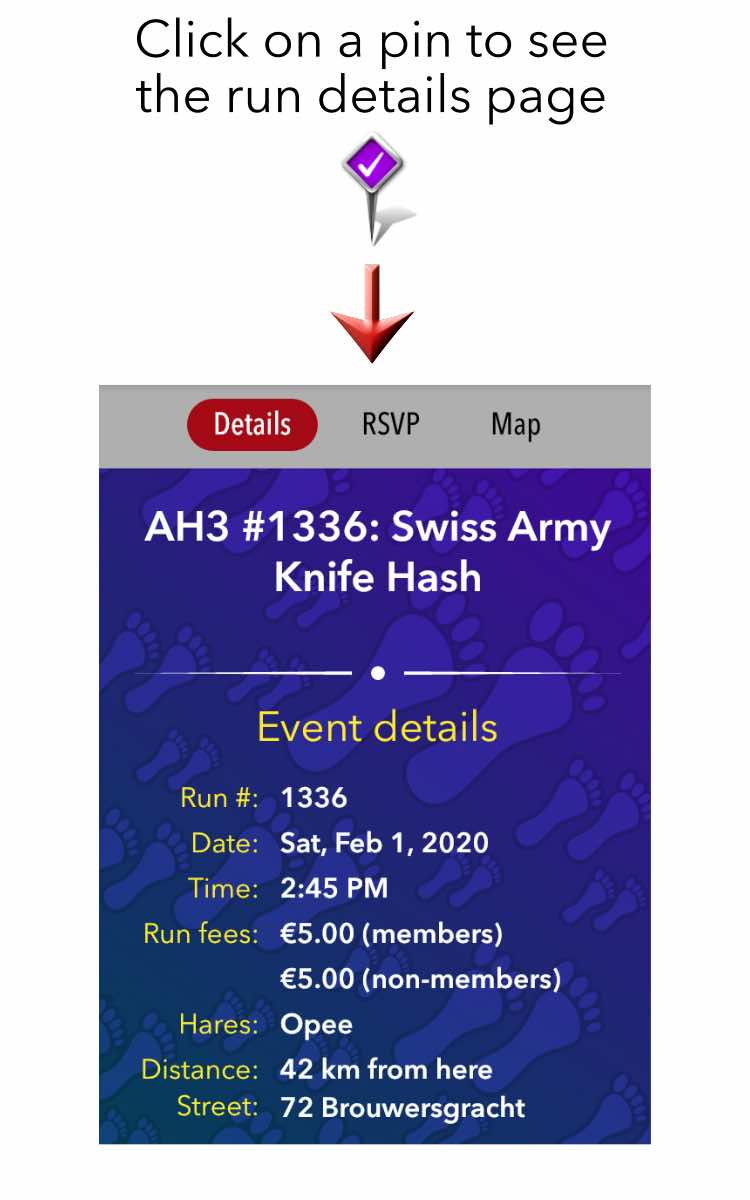
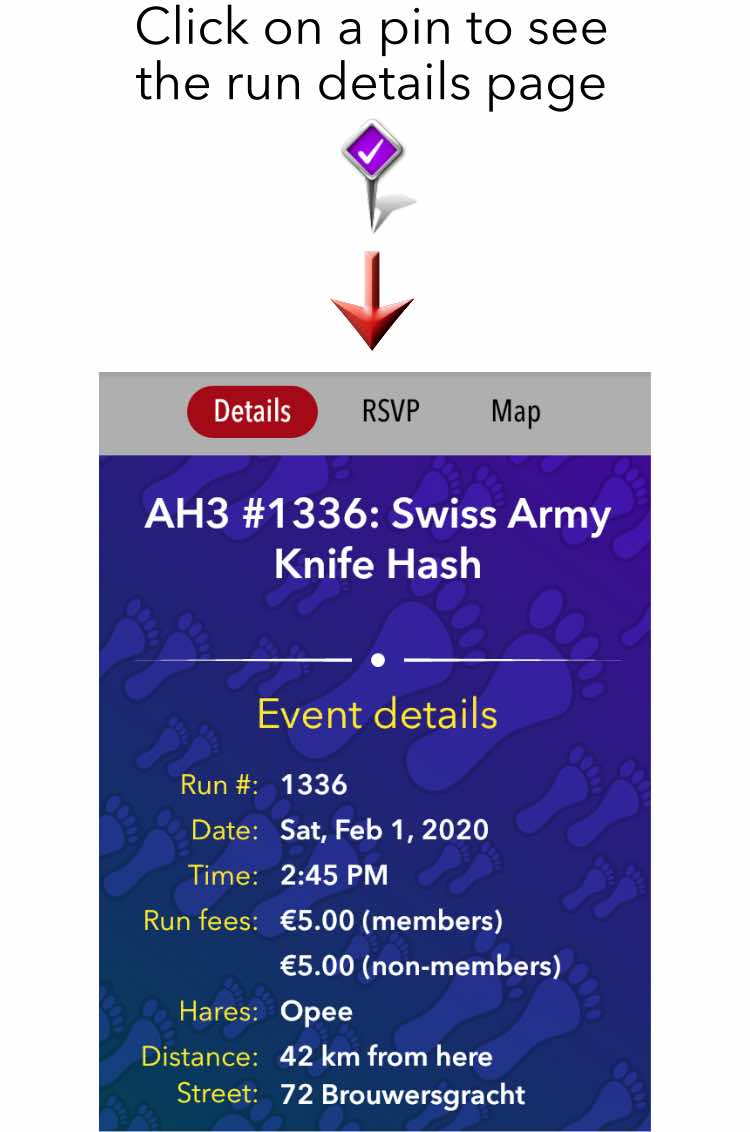
Int: Updates to help screens

Changed region(s): [[0.1227, 0.2473, 0.8893, 1.0], [0.184, 0.0, 0.828, 0.1855], [0.828, 0.5256, 0.8893, 0.5875]]

diff --git a/lib/pages/top_level/main_navigation_page.dart b/lib/pages/top_level/main_navigation_page.dart
@@ -42,7 +42,7 @@ class _MainNavigationPageState extends State<MainNavigationPage> {
   List<Widget> tabs = <Widget>[];
   List<String> tabTitles = <String>[];
 
-  List<List<String>> tutorials = <List<String>>[tutorialUpcomingRuns,helpNotAvailable,tutorialRunLocations,helpNotAvailable];
+  List<List<String>> tutorials = <List<String>>[tutorialUpcomingRuns, tutorialKennelsView, tutorialRunLocations, tutorialRunCounts];
 
   static List<String> tutorialRunLocations = <String>[
     'images/tutorial/run_locations_help_1.jpg',
@@ -61,11 +61,25 @@ class _MainNavigationPageState extends State<MainNavigationPage> {
     'images/tutorial/upcoming_runs_page_7.jpg',
   ];
 
-    static List<String> helpNotAvailable = <String>[
+  static List<String> helpNotAvailable = <String>[
     'images/tutorial/help_not_available.jpg',
   ];
 
+  static List<String> tutorialRunCounts = <String>[
+    'images/tutorial/run_counts_tutorial_1.jpg',
+    'images/tutorial/run_counts_tutorial_2.jpg',
+    'images/tutorial/run_counts_tutorial_3.jpg',
+  ];
 
+  static List<String> tutorialKennelsView = <String>[
+    'images/tutorial/kennels_tutorial_1.jpg',
+    'images/tutorial/kennels_tutorial_2.jpg',
+    'images/tutorial/kennels_tutorial_3.jpg',
+    'images/tutorial/kennels_tutorial_4.jpg',
+    'images/tutorial/kennels_tutorial_5.jpg',
+    'images/tutorial/kennels_tutorial_6.jpg',
+    'images/tutorial/kennels_tutorial_7.jpg',
+  ];
 
   String appBarText;
   String initializationMessage = '';
@@ -86,7 +100,7 @@ class _MainNavigationPageState extends State<MainNavigationPage> {
     tabTitles.add('Upcoming Runs');
     tabTitles.add('Kennels');
     tabTitles.add('Explore Runs');
-    tabTitles.add('Your Total Run Counts');
+    tabTitles.add('Run Counts');
 
     //tabTitles.add('Scanner');
     // tabTitles.add('Friends');
@@ -321,12 +335,12 @@ class _MainNavigationPageState extends State<MainNavigationPage> {
                                   alignment: AlignmentDirectional.topCenter,
                                   children: <Widget>[
                                     Positioned(
-                                      top: 0.0,
+                                      top: 15.0,
                                       left: 0.0,
                                       right: 0.0,
                                       child: Column(
                                         children: <Widget>[
-                                          ConstrainedBox( 
+                                          ConstrainedBox(
                                             constraints: BoxConstraints(minHeight: constraints.maxHeight > 60 ? constraints.maxHeight - 60 : constraints.maxHeight),
                                             child: Image.asset(
                                               tutorials[currentPage][index],
